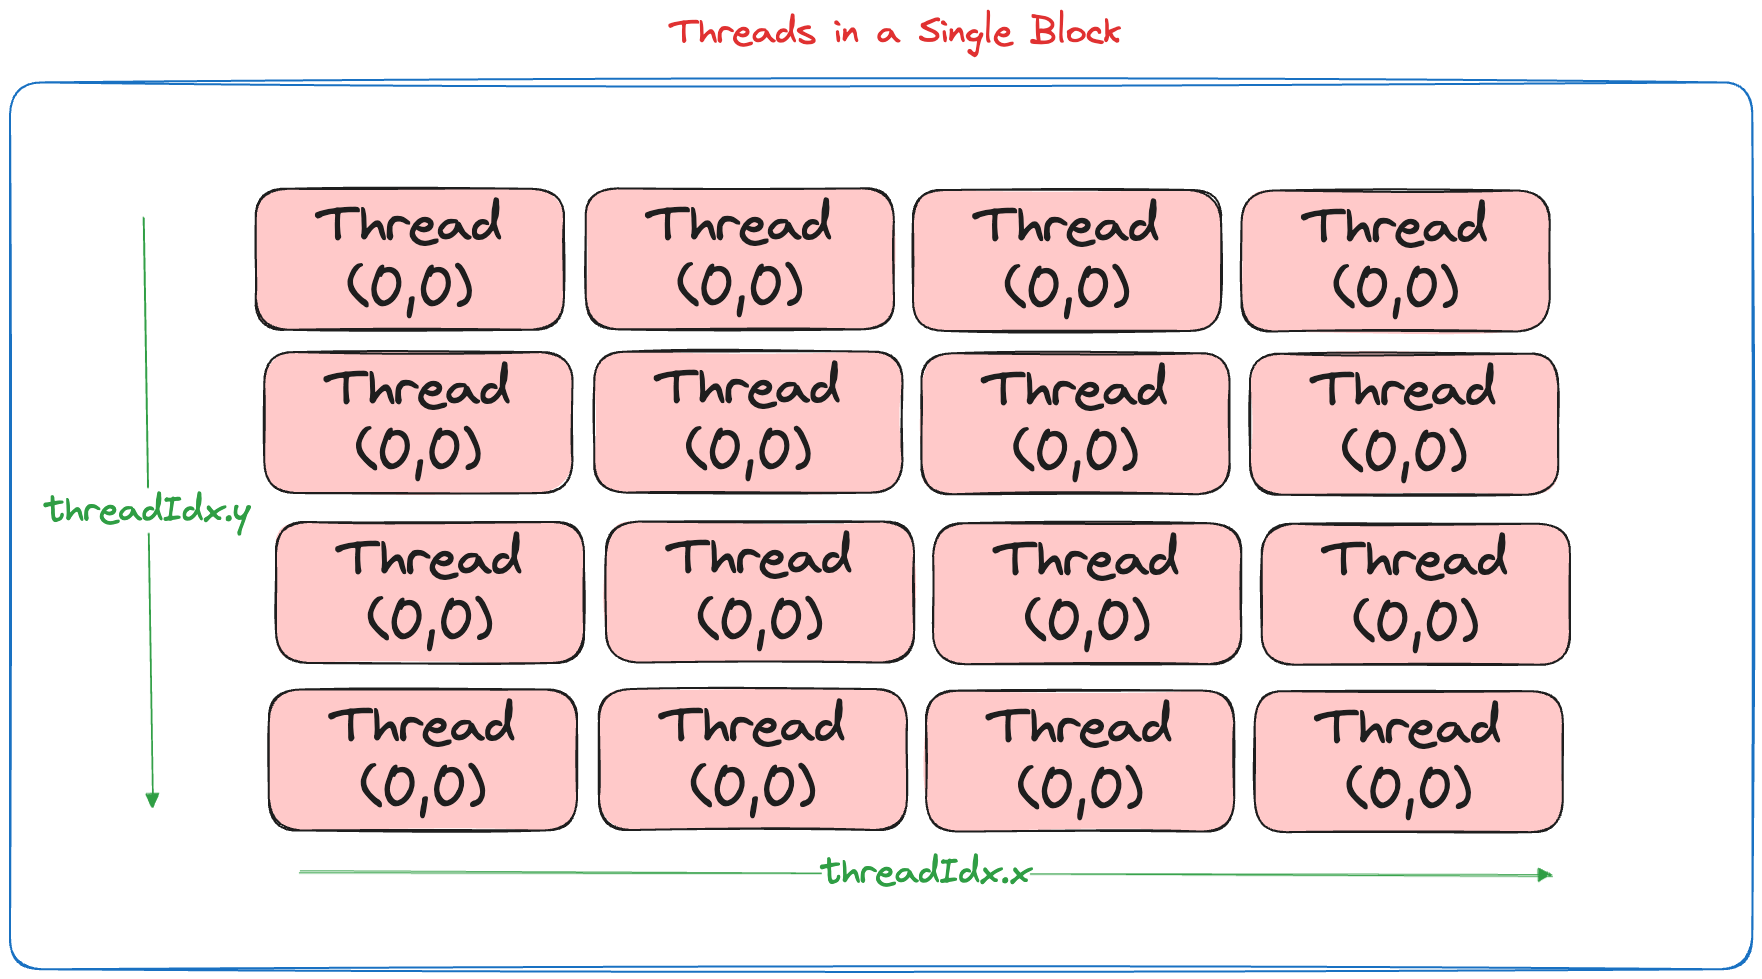
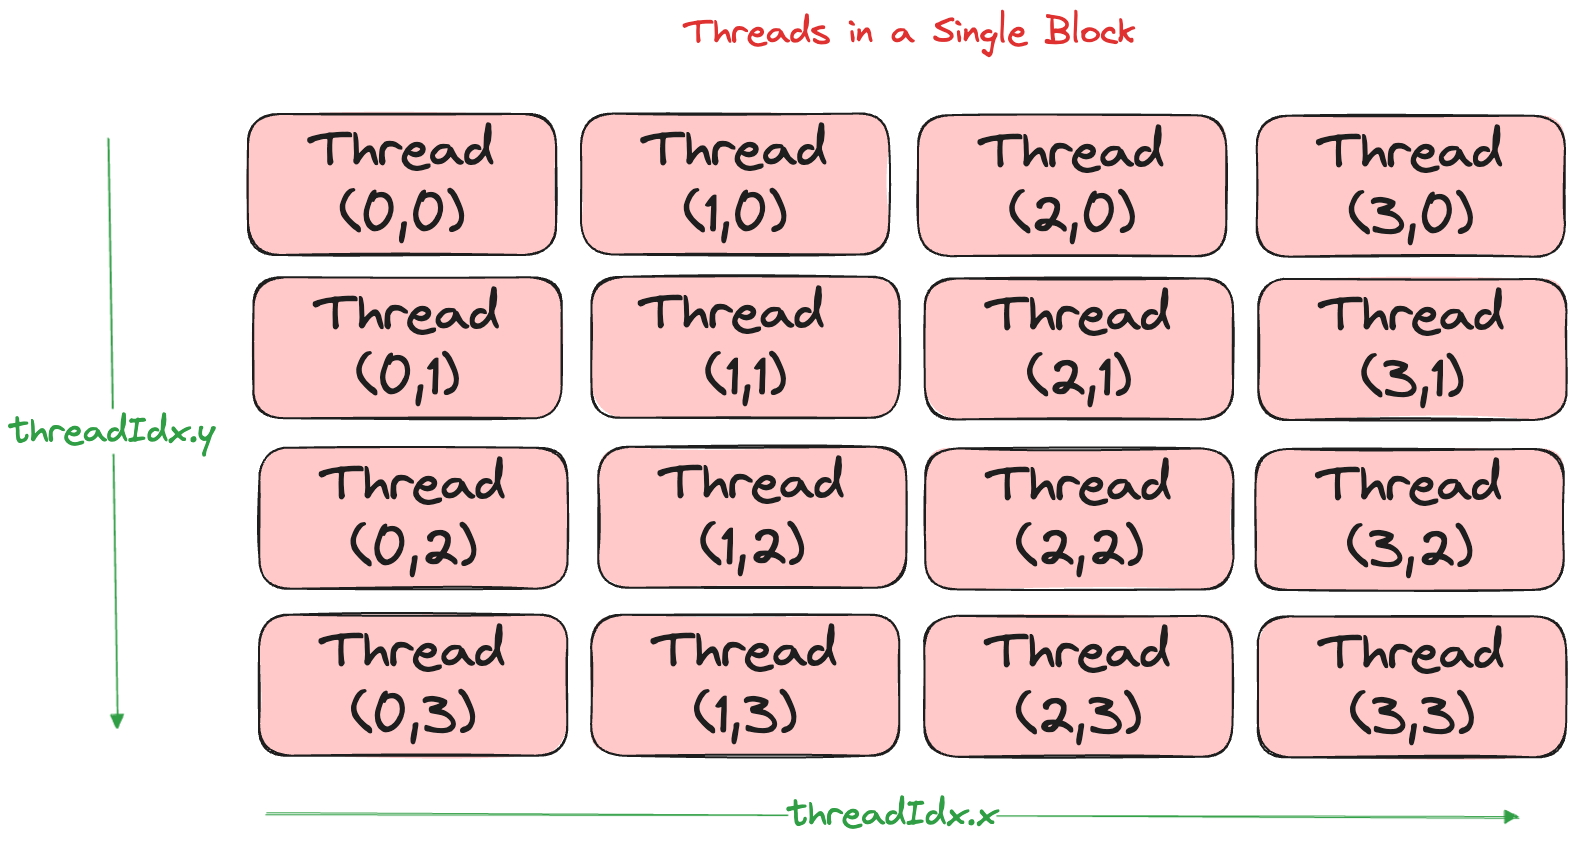
Fix thread hierachy image

diff --git a/docs/posts/2025-07-20-gpu-puzzles-p2.html b/docs/posts/2025-07-20-gpu-puzzles-p2.html
@@ -1054,15 +1054,12 @@ c = a \cdot b = \sum_{i=0}^{n-1} a_i b_i
 </ol>
 <p>Blelloch’s fix to these problems is to break the up-sweep and down-sweep into separate phases:</p>
 <ul>
-<li>Up-sweep and down-sweep touch disjoint tree levels, so threads never trample each other within a phase.<br>
-</li>
-<li>Only two global barriers are needed (one between the phases, one at the end).<br>
-</li>
+<li>Up-sweep and down-sweep touch disjoint tree levels, so threads never trample each other within a phase.</li>
+<li>Only two global barriers are needed (one between the phases, one at the end).</li>
 <li>Now you get Θ(n) work and correctness, even for arrays much bigger than a warp.</li>
 </ul>
 <p>The result is a scan that is both faster and safer on modern GPUs.</p>
-<ol type="1">
-<li><p><strong>Up-sweep (reduce)</strong></p>
+<p><strong>Up-sweep (reduce)</strong></p>
 <ul>
 <li>Build a binary reduction tree over log₂(n) rounds:
 <ul>
@@ -1072,9 +1069,9 @@ c = a \cdot b = \sum_{i=0}^{n-1} a_i b_i
 </ul></li>
 <li>After the final round, a[n-1] holds the overall total</li>
 </ul>
-<p><img src="mojo_gpu_puzzles/p12_up.gif" class="img-fluid"> <em>Up-Sweep: combining elements in a binary-tree fashion-build partial sums until the final element holds the total.</em></p></li>
-<li><p><strong>Down-sweep (propagate)</strong><br>
-After the up-sweep leaves <code>a[n-1]</code> containing the overall sum, we walk the tree top-down to scatter prefix sums into every slot:</p>
+<p><img src="mojo_gpu_puzzles/p12_up.gif" class="img-fluid"> <em>Up-Sweep: combining elements in a binary-tree fashion-build partial sums until the final element holds the total.</em></p>
+<p><strong>Down-sweep (propagate)</strong></p>
+<p>After the up-sweep leaves <code>a[n-1]</code> containing the overall sum, we walk the tree top-down to scatter prefix sums into every slot:</p>
 <ul>
 <li>Initialize the down-sweep with a window size of <code>step = n/2</code>.<br>
 </li>
@@ -1093,8 +1090,7 @@ After the up-sweep leaves <code>a[n-1]</code> containing the overall sum, we wal
 <li>With each pass, the partial sums trickle down one level of the binary tree; after log₂(n) iterations every element holds its exclusive prefix sum.</li>
 </ul>
 <p><img src="mojo_gpu_puzzles/p12_down.gif" class="img-fluid quarto-figure quarto-figure-center"><br>
-<em>Down Sweep: siblings swap and accumulate, driving the scan from root back to leaves.</em></p></li>
-</ol>
+<em>Down Sweep: siblings swap and accumulate, driving the scan from root back to leaves.</em></p>
 <p>Time Complexity: Θ(log₂ n) parallel steps, Work: Θ(n) total operations.</p>
 <details open="">
 <summary>
@@ -2475,7 +2471,7 @@ window.document.addEventListener("DOMContentLoaded", function (event) {
 <input type="hidden" id="giscus-base-theme" value="light">
 <input type="hidden" id="giscus-alt-theme" value="dark">
 </div> <!-- /content -->
-<footer class="footer"><div class="nav-footer"><div class="nav-footer-center"><div class="toc-actions d-sm-block d-md-none"><ul><li><a href="https://github.com/goodhamgupta/personal_blog/edit/main/posts/2025-07-20-gpu-puzzles-p2.qmd" class="toc-action"><i class="bi bi-github"></i>Edit this page</a></li><li><a href="https://github.com/goodhamgupta/personal_blog/issues/new" class="toc-action"><i class="bi empty"></i>Report an issue</a></li></ul></div></div></div></footer><script>var lightboxQuarto = GLightbox({"loop":false,"selector":".lightbox","closeEffect":"zoom","descPosition":"bottom","openEffect":"zoom"});
+<footer class="footer"><div class="nav-footer"><div class="nav-footer-center"><div class="toc-actions d-sm-block d-md-none"><ul><li><a href="https://github.com/goodhamgupta/personal_blog/edit/main/posts/2025-07-20-gpu-puzzles-p2.qmd" class="toc-action"><i class="bi bi-github"></i>Edit this page</a></li><li><a href="https://github.com/goodhamgupta/personal_blog/issues/new" class="toc-action"><i class="bi empty"></i>Report an issue</a></li></ul></div></div></div></footer><script>var lightboxQuarto = GLightbox({"openEffect":"zoom","selector":".lightbox","loop":false,"descPosition":"bottom","closeEffect":"zoom"});
 window.onload = () => {
   lightboxQuarto.on('slide_before_load', (data) => {
     const { slideIndex, slideNode, slideConfig, player, trigger } = data;
